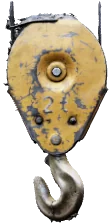
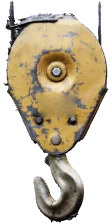
Lock Red Earth and Steel and Glass designs; correct Snatch Block rigging and markings

Changed region(s): [[0.3482, 0.4062, 0.6696, 0.5312]]

diff --git a/looks/snatch/index.html b/looks/snatch/index.html
@@ -9,11 +9,12 @@
 <link rel="stylesheet" href="shared/look.css">
 </head>
 <body><main class="pick">
-<h1>SNATCH BLOCK: PICK A LOOK</h1>
-<p>Both show the same 5-second snap, with the proposed gauge and buttons. Tap Sound to hear it.</p>
-<a class="card" href="a/" style="background-image:url(a/assets/bg.webp)"><strong>A: Forest Clearing</strong><span>Cold, overcast, wet brown mud</span></a>
-<a class="card" href="b/" style="background-image:url(b/assets/bg.webp)"><strong>B: Red Earth</strong><span>Warm evening, red laterite mud</span></a>
-<p><b>Credits.</b> "Excavator Animation" by tori1243, "Bulldozer" by RobbyHollister, "Crane hook" by Sasha Gaer and "Chatham Dockyard Winch 2" by artfletch, all from Sketchfab under <a href="https://creativecommons.org/licenses/by/4.0/" style="color:inherit">CC BY 4.0</a>, pre-rendered to sprites and relit.</p>
+<h1>SNATCH BLOCK: RED EARTH APPROVED</h1>
+<p>Look B is the locked design. Both tests show the same 5-second snap, with the proposed gauge and buttons. Tap Sound to hear it.</p>
+<a class="card" href="a/" style="background-image:url(a/assets/bg.webp)"><strong>A: Forest Clearing</strong><span>Not selected. Cold, overcast, wet brown mud</span></a>
+<a class="card" href="b/" style="background-image:url(b/assets/bg.webp)"><strong>B: Red Earth</strong><span>Approved. Warm evening, red laterite mud</span></a>
+<p><b>Credits.</b> "Excavator Animation" by tori1243, "Bulldozer" by RobbyHollister, "Crane hook" by Sasha Gaer and "Chatham Dockyard Winch 2" by artfletch, all from Sketchfab under CC BY 4.0, pre-rendered to sprites, relit, markings removed.</p>
+<a class="text" href="https://creativecommons.org/licenses/by/4.0/">CC BY 4.0 licence</a>
 <p>CC0: Poly Haven, ambientCG, Kenney, and Freesound users C-V, EugeneEverett, SciFiSounds, Deathscyp and Breviceps. Fonts: Barlow and Barlow Condensed (OFL).</p>
 <a class="text" href="https://github.com/guffawer/bakeoff-site/blob/main/looks/snatch/ASSETS.md">All assets</a><a class="text" href="../../">All games</a>
 </main></body>

diff --git a/looks/snatch/shared/look.js b/looks/snatch/shared/look.js
@@ -90,8 +90,9 @@
   // Three layers, as in the Godot Line2D spec: shadow, base, scrolling lay pattern.
   function rope(points, scroll, thick = 4.5) {
     ctx.lineCap = 'round'; ctx.lineJoin = 'round';
-    line(points, 1.8, 3.2);
-    ctx.lineWidth = thick + 1; ctx.strokeStyle = 'rgba(0,0,0,.42)'; ctx.stroke();
+    // The shadow layer also edges the rope, which would otherwise vanish against the dusk sky.
+    line(points, 0.7, 1.4);
+    ctx.lineWidth = thick + 2.8; ctx.strokeStyle = 'rgba(20,8,4,.8)'; ctx.stroke();
     line(points);
     ctx.lineWidth = thick; ctx.strokeStyle = '#E8601C'; ctx.stroke();
 
@@ -111,7 +112,7 @@
   function rigging(t, load, pose) {
     const slack = t < SNAP ? Math.max(0, 1 - load / 0.45) : 1;
     const winch = { x: 72, y: 277 }, bucket = spritePoint(pose, 0.07, 0.62);
-    const boom = spritePoint(pose, 0.22, 0.22), rear = spritePoint(pose, 0.9, 0.62);
+    const boom = spritePoint(pose, 0.48, 0.38), rear = spritePoint(pose, 0.9, 0.62);
     const hitch = { x: 134, y: 180 }, scroll = t < SNAP ? t * 5 + load * 14 : 0;
     const block = { x: 176, y: 250 - Math.min(1, load) * 6 };
     const top = { x: block.x, y: block.y - 12 };

diff --git a/looks/momentum/index.html b/looks/momentum/index.html
@@ -9,10 +9,10 @@
 <link rel="stylesheet" href="shared/look.css">
 </head>
 <body><main class="pick">
-<h1>Momentum Lab: pick a look</h1>
+<h1>Momentum Lab: Steel and Glass approved</h1>
 <p>Both play the same 5-second chain reaction and tune. Tap Sound to hear it.</p>
-<a class="card" href="a/" style="background-image:url(a/assets/bg.webp)"><strong>A: Brass and Walnut</strong><span>Warm, hand-built workshop</span></a>
-<a class="card" href="b/" style="background-image:url(b/assets/bg.webp)"><strong>B: Steel and Glass</strong><span>Cool, machined lab</span></a>
+<a class="card" href="a/" style="background-image:url(a/assets/bg.webp)"><strong>A: Brass and Walnut</strong><span>Not selected. Warm, hand-built workshop</span></a>
+<a class="card" href="b/" style="background-image:url(b/assets/bg.webp)"><strong>B: Steel and Glass</strong><span>Approved. Cool, machined lab</span></a>
 <p>All art and samples are CC0: Poly Haven, Kenney and Versilian Studios. Fonts: Manrope and Inter (OFL).</p>
 <a class="text" href="https://github.com/guffawer/bakeoff-site/blob/main/looks/momentum/ASSETS.md">All assets</a><a class="text" href="../../">All games</a>
 </main></body>

diff --git a/snatch/index.html b/snatch/index.html
@@ -1,2 +1,2 @@
 <!doctype html><html lang="en-GB"><meta charset="utf-8"><meta name="viewport" content="width=device-width,initial-scale=1"><title>Snatch Block</title>
-<body style="margin:0;background:#03040A;color:#EEF4FF;font:16px/1.5 system-ui,sans-serif"><main style="padding:56px 20px"><h1 style="font-size:24px">Snatch Block</h1><p>This game is not built yet.</p><a href="../looks/snatch/" style="color:#E9A800;display:block;line-height:44px">Open the two look tests</a><a href="../" style="color:#38E1FF;display:inline-block;line-height:44px">Back to all games</a></main></html>
+<body style="margin:0;background:#03040A;color:#EEF4FF;font:16px/1.5 system-ui,sans-serif"><main style="padding:56px 20px"><h1 style="font-size:24px">Snatch Block</h1><p>This game is not built yet. Approved look: Red Earth.</p><a href="../looks/snatch/b/" style="color:#E9A800;display:block;line-height:44px">Open the approved look</a><a href="../" style="color:#38E1FF;display:inline-block;line-height:44px">Back to all games</a></main></html>

diff --git a/looks/snatch/a/index.html b/looks/snatch/a/index.html
@@ -14,7 +14,7 @@
 <section class="panel gauge ui">
 <div class="row"><h1>SNATCH BLOCK</h1><div class="load"><span data-load>0.0</span> <small>/ 12 t</small></div></div>
 <div class="bar"><i></i><b></b></div>
-<div class="row"><span>Advantage 2:1</span><span class="state">TAKING UP</span></div>
+<div class="row"><span>2:1 rig, 1.5:1 at this angle</span><span class="state">TAKING UP</span></div>
 </section>
 <output class="panel fps ui">-- fps</output>
 <div class="rig ui" aria-label="Control design, not active in the look test"><button type="button"><span>2:1</span>Block</button><button type="button"><span>&minus;</span>Slack</button><button type="button" class="go"><span>+</span>Winch</button></div>

diff --git a/looks/snatch/b/index.html b/looks/snatch/b/index.html
@@ -14,7 +14,7 @@
 <section class="panel gauge ui">
 <div class="row"><h1>SNATCH BLOCK</h1><div class="load"><span data-load>0.0</span> <small>/ 12 t</small></div></div>
 <div class="bar"><i></i><b></b></div>
-<div class="row"><span>Advantage 2:1</span><span class="state">TAKING UP</span></div>
+<div class="row"><span>2:1 rig, 1.6:1 at this angle</span><span class="state">TAKING UP</span></div>
 </section>
 <output class="panel fps ui">-- fps</output>
 <div class="rig ui" aria-label="Control design, not active in the look test"><button type="button"><span>2:1</span>Block</button><button type="button"><span>&minus;</span>Slack</button><button type="button" class="go"><span>+</span>Winch</button></div>

diff --git a/index.html b/index.html
@@ -2,4 +2,4 @@
 <style>:root{color-scheme:dark}body{margin:0;background:#03040A;color:#EEF4FF;font:16px/1.5 system-ui,sans-serif}main{max-width:420px;margin:auto;padding:56px 20px}h1{font-size:24px}a{display:block;min-height:44px;margin:12px 0;padding:14px 16px;border:1px solid #38456f;border-radius:10px;color:inherit;text-decoration:none}small{display:block;color:#AEB9D0}</style>
 <main><h1>Game Bake-off</h1>
 <a href="momentum/">Momentum Lab<small>Look approved: Steel and Glass. Not built.</small></a>
-<a href="snatch/">Snatch Block<small>Look gate</small></a></main></html>
+<a href="snatch/">Snatch Block<small>Look approved: Red Earth. Not built.</small></a></main></html>

diff --git a/snatch/DESIGN.md b/snatch/DESIGN.md
@@ -1,0 +1,34 @@
+# Snatch Block design lock
+
+Status: look approved on 22 Nov 2026. The game is not built and no build is approved.
+
+Reference: [Look B, Red Earth](https://guffawer.github.io/bakeoff-site/looks/snatch/b/)
+
+| Element | Locked value |
+|---|---|
+| Feel | Gritty recovery site at warm dusk; tense |
+| Sky | #AB9E9D upper, #E1B782 horizon (replaces #C9D3D6) |
+| Wet mud | #4F2215 (replaces #3A2B1C), red laterite banks |
+| Machines | #E9A800, worn, no brand marks, plates or stencils |
+| Rope | #E8601C, 4.5 px, three layers: dark edging shadow, base, scrolling lay; up to 12 segments |
+| Limit | #E5322D for the bar and border; warning text is white on #B3201C |
+| Text | #FFFFFF on #100E0C panels at 84% |
+| Action colour | Dark #16120C text on #E9A800 |
+| Fonts | Barlow Condensed 700 (18-22 px), Barlow 500/700 (12-14 px) |
+| Layout | Gauge on top; Block, Slack and Winch buttons at 56 px, above the bottom 25% and left of the right 72 px; 10 px radii |
+| Effects | Snap whip 0.4 s, up to 24 mud particles, no runtime blur or light shadows |
+| Sound | Diesel rumble, creak rising with tension, snap crack, mud hit |
+| Clip Mode | No UI; CC-BY model credit goes in the video description |
+
+## Rigging rules the build must respect
+
+1. Show the rig ratio and the effective advantage. A 2:1 rig gives 2:1 only with parallel legs; at the 78 degree angle in the look it gives 1.56:1.
+2. The strop follows the resultant of the two rope legs.
+3. The block and strop carry up to twice the line tension, so rate them separately from the rope.
+4. A working load limit is not a breaking strength. The brief snaps the rope just above the limit, so label that threshold "Limit" and never "WLL".
+
+## To resolve when a build is approved
+
+1. Test rope readability on a budget Android at half brightness, as orange on red earth is the known weakness of this look.
+2. Prove 60 fps in the Godot single-threaded web export with 3 machines and 4 ropes.
+3. Get legal clearance on machine liveries and model provenance before any store release.

diff --git a/looks/snatch/ASSETS.md b/looks/snatch/ASSETS.md
@@ -8,8 +8,8 @@ Licences were checked on each source page on 22 Nov 2026.
 |---|---|---|---|---|---|
 | `*/assets/digger.webp` | Excavator Animation | https://sketchfab.com/3d-models/excavator-animation-940258497f9f4eba9710bb359a9e777e | CC BY 4.0 | tori1243 | Pre-rendered side view, relit |
 | `*/assets/loader.webp` | Bulldozer (a wheel loader) | https://sketchfab.com/3d-models/bulldozer-2137d93b5a804161bc65b44d583aa68e | CC BY 4.0 | RobbyHollister | Pre-rendered side view, relit |
-| `*/assets/block.webp` | Crane hook | https://sketchfab.com/3d-models/crane-hook-43c6b3bccd3d4bc6b5c68b3ec79626d3 | CC BY 4.0 | Sasha Gaer | Pre-rendered, relit |
-| `*/assets/winch.webp` | Chatham Dockyard Winch 2 | https://sketchfab.com/3d-models/chatham-dockyard-winch-2-f0d68dbbcdbb4e59bc8e690a58dee7af | CC BY 4.0 | artfletch | Pre-rendered, relit |
+| `*/assets/block.webp` | Crane hook | https://sketchfab.com/3d-models/crane-hook-43c6b3bccd3d4bc6b5c68b3ec79626d3 | CC BY 4.0 | Sasha Gaer | Pre-rendered, relit, load stencil removed |
+| `*/assets/winch.webp` | Chatham Dockyard Winch 2 | https://sketchfab.com/3d-models/chatham-dockyard-winch-2-f0d68dbbcdbb4e59bc8e690a58dee7af | CC BY 4.0 | artfletch | Pre-rendered, relit, maker's plate removed |
 
 Licence: https://creativecommons.org/licenses/by/4.0/ . Files were obtained through the Objaverse open dataset; each licence was confirmed on the original Sketchfab listing. Renders and textures were checked for brand marks.
 

diff --git a/momentum/DESIGN.md b/momentum/DESIGN.md
@@ -1,0 +1,24 @@
+# Momentum Lab design lock
+
+Status: look approved on 22 Nov 2026. The game is not built and no build is approved.
+
+Reference: [Look B, Steel and Glass](https://guffawer.github.io/bakeoff-site/looks/momentum/b/)
+
+| Element | Locked value |
+|---|---|
+| Feel | Cool machined lab; tactile, satisfying, musical |
+| Base | #0B0C10, dark steel tread plate |
+| Chrome | #C8D0DA |
+| Notes | C #FF4D79, E #FFB13D, G #38E1B8; one colour per pitch throughout |
+| Text | #EEF1F6 on #0B0C10 panels at 90% |
+| Parts | Glass domes in steel rims, glass bars on steel, pipe cradle, fan gravity well, ribbed-tube accelerator |
+| Fonts | Manrope 700/800 (16-20 px), Inter 400/600 (12-14 px) |
+| Effects | Baked soft shadows, hit flash up to 0.3 s in the note colour, up to 60 sparks |
+| Sound | Tuned glockenspiel and marimba on the beat |
+| Clip Mode | No UI and no route preview; all assets CC0, so no credit needed |
+
+## To resolve when a build is approved
+
+1. The accelerator tube needs a direction cue, as it does not read as an accelerator.
+2. The tread plate may need to be quieter behind small parts.
+3. Beat lock, proposed and not yet proven: pre-simulate each drop, then time-warp playback so impact and note land together.
